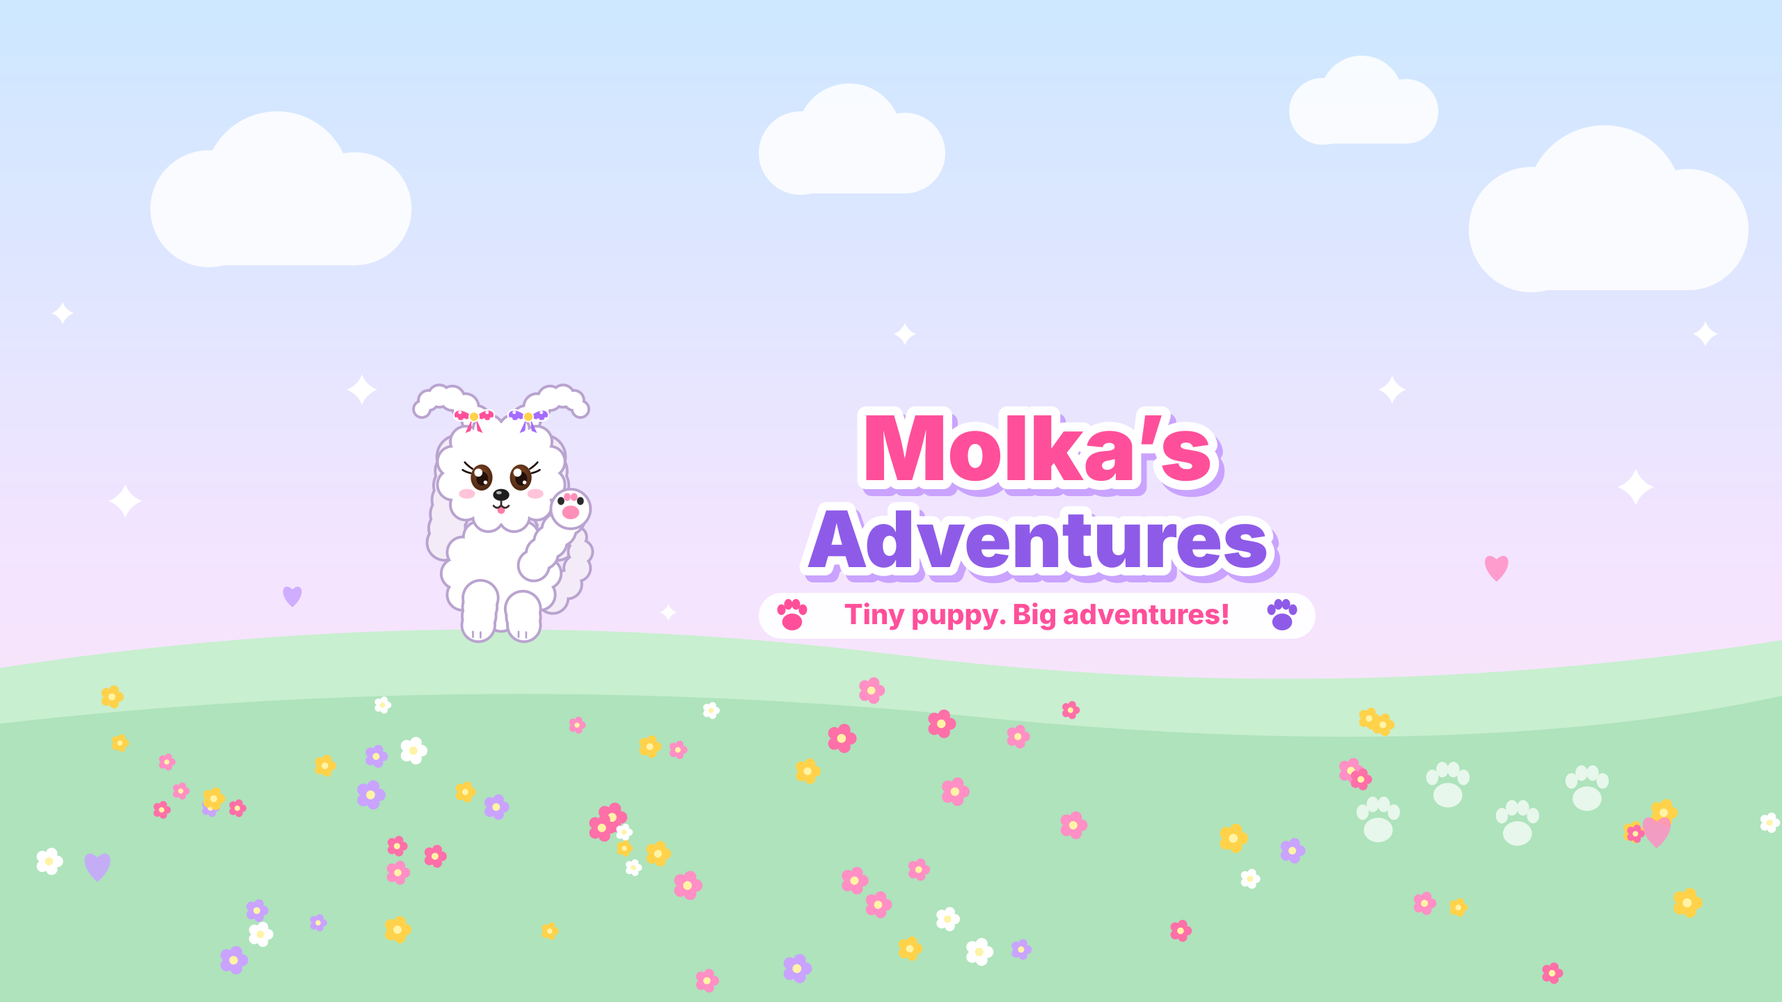
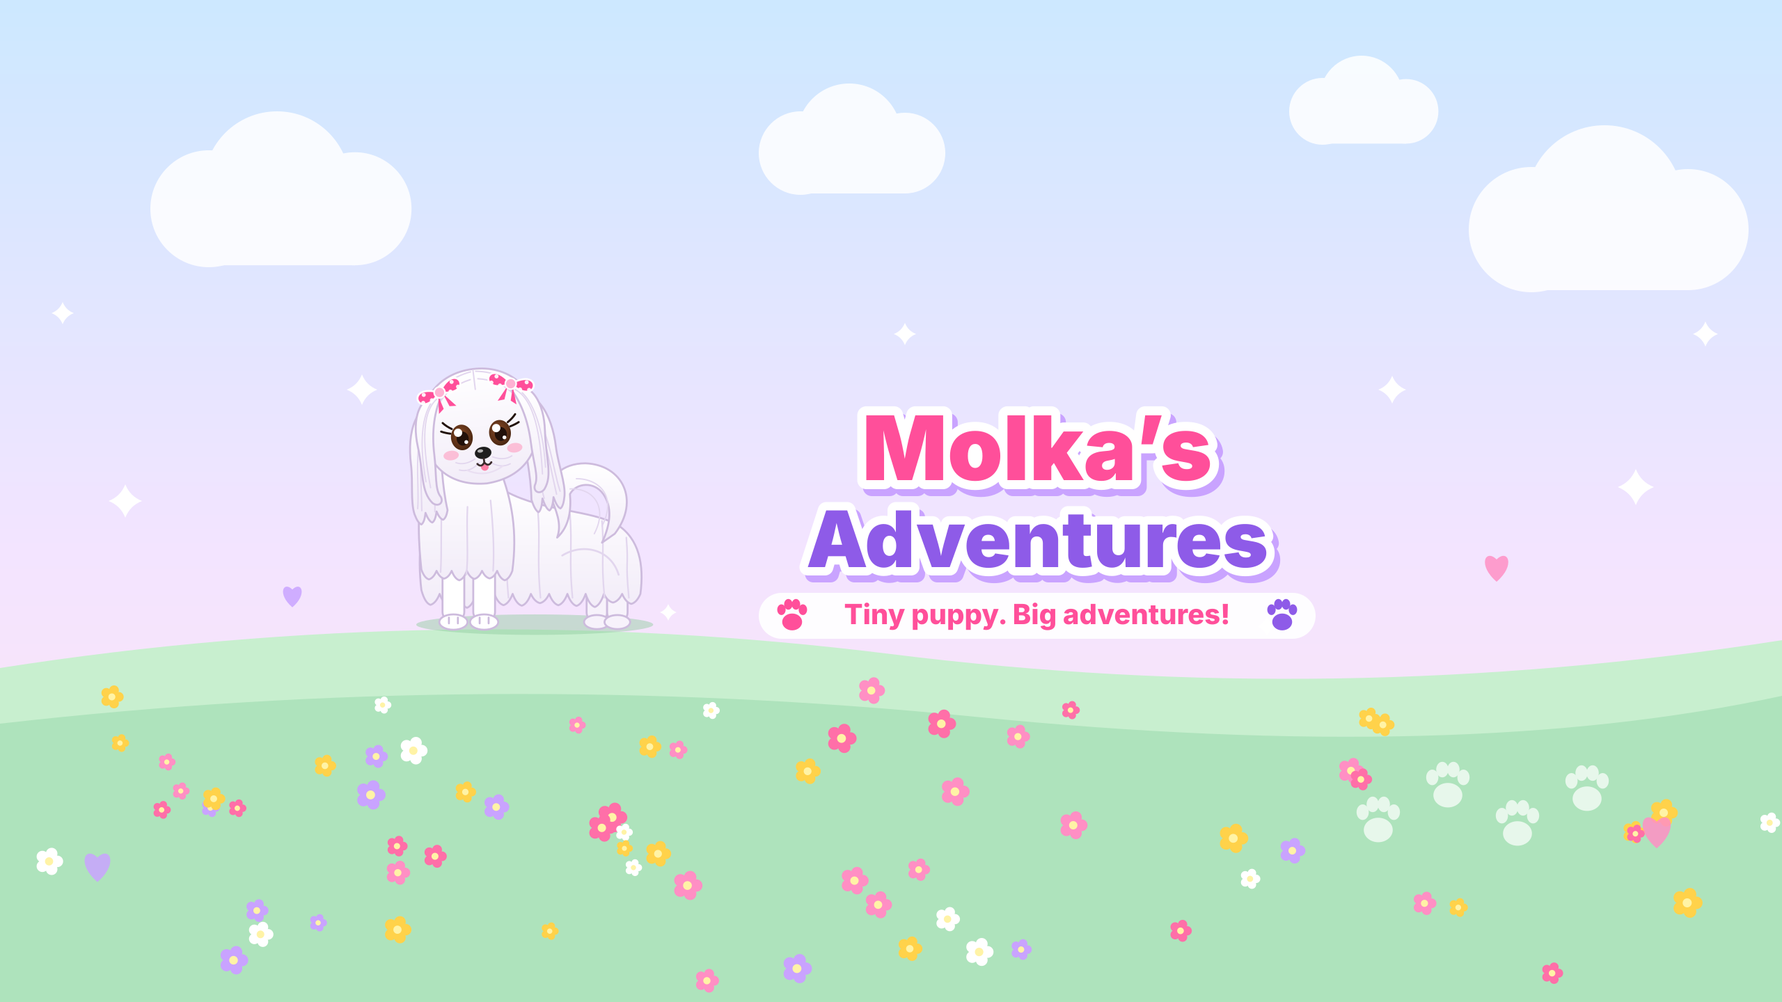
Redraw Molka: long sleek silky coat, pink pigtails, real puppy pose
Avatar, banner and watermark re-rendered. Bible, episode prompt and
channel description updated to the new locked design (both bows pink,
pigtails falling around the face, four-legged standing pose).

Claude-Session: https://claude.ai/code/session_01GFcEN7JDQBoXaYNeDLAjZH

Changed region(s): [[0.2188, 0.3438, 0.375, 0.6562]]

diff --git a/scripts/build_brand.py b/scripts/build_brand.py
@@ -24,129 +24,150 @@ NOSE = "#1E1E1E"
 BLUSH = "#FF9DC0"
 TONGUE = "#FF7FA6"
 PAD_PINK, PAD_BLACK = "#FF8FB8", "#2A2A2A"
-BOW_LEFT, BOW_RIGHT, BOW_KNOT = "#FF4F9A", "#A66BFF", "#FFD24A"
+BOW, BOW_KNOT = "#FF4F9A", "#FFB3D4"
 BRAND_PINK, BRAND_PURPLE = "#FF4F9A", "#8E5BE8"
 
 
-def fluff(circles, fill=FUR, outline=OUTLINE, w=5):
-    """Scalloped fluffy shape: outline layer of bigger circles under fill circles."""
-    under = "".join(f'<circle cx="{x:.1f}" cy="{y:.1f}" r="{r + w:.1f}" fill="{outline}"/>'
-                    for x, y, r in circles)
-    over = "".join(f'<circle cx="{x:.1f}" cy="{y:.1f}" r="{r:.1f}" fill="{fill}"/>'
-                   for x, y, r in circles)
-    return under + over
+HAIR_LINE = "#CDBBDD"     # outline of the silky coat
+STRAND = "#E2D6EE"        # strand lines that make the coat read as long & silky
 
 
-def chain(p0, p1, r0, r1, n):
-    return [(p0[0] + (p1[0] - p0[0]) * i / (n - 1),
-             p0[1] + (p1[1] - p0[1]) * i / (n - 1),
-             r0 + (r1 - r0) * i / (n - 1)) for i in range(n)]
+def hair(d, extra=""):
+    return (f'<path d="{d}" fill="url(#hairGrad)" stroke="{HAIR_LINE}" stroke-width="3" '
+            f'stroke-linejoin="round"/>{extra}')
 
 
-def head_circles():
-    c = [(0, 0, 92)]
-    for k in range(12):
-        a = math.radians(k * 30 + 15)
-        c.append((math.cos(a) * 92, math.sin(a) * 82, 26))
-    return c
+def strands(paths, w=2.5):
+    return "".join(f'<path d="{d}" stroke="{STRAND}" stroke-width="{w}" fill="none" '
+                   f'stroke-linecap="round"/>' for d in paths)
 
 
-def ear(side):
-    s = side
-    return fluff(chain((s * 78, -30), (s * 104, 128), 38, 30, 7), fill=FUR_SHADE)
-
-
-def pigtail(side):
-    s = side
-    # short fountain-style tufts that splay outwards and droop at the tips,
-    # so they read as pigtails, not ears
-    pts = [(s * 46, -98, 24), (s * 66, -122, 22), (s * 90, -138, 20),
-           (s * 114, -142, 18), (s * 134, -134, 16), (s * 146, -118, 13)]
-    return fluff(pts)
-
-
-def bow(side):
-    s = side
-    color = BOW_LEFT if s < 0 else BOW_RIGHT
-    cx, cy = s * 50, -104
-    loops = (f'<path d="M {cx} {cy} C {cx-48} {cy-40}, {cx-52} {cy+30}, {cx} {cy} Z" '
-             f'fill="{color}" stroke="#ffffff" stroke-width="3" stroke-linejoin="round"/>'
-             f'<path d="M {cx} {cy} C {cx+48} {cy-40}, {cx+52} {cy+30}, {cx} {cy} Z" '
-             f'fill="{color}" stroke="#ffffff" stroke-width="3" stroke-linejoin="round"/>')
-    tails = (f'<path d="M {cx-4} {cy+4} L {cx-16} {cy+30} L {cx-6} {cy+26} Z" fill="{color}"/>'
-             f'<path d="M {cx+4} {cy+4} L {cx+16} {cy+30} L {cx+6} {cy+26} Z" fill="{color}"/>')
-    dots = "".join(f'<circle cx="{cx + dx}" cy="{cy + dy}" r="3.2" fill="#ffffff" opacity="0.9"/>'
-                   for dx, dy in [(-26, -8), (-18, 6), (-32, 4), (24, -8), (18, 6), (32, 4)])
-    knot = f'<circle cx="{cx}" cy="{cy}" r="9" fill="{BOW_KNOT}" stroke="#ffffff" stroke-width="2.5"/>'
-    return tails + loops + dots + knot
-
-
-def eye(cx, cy, side):
-    lash = (f'<path d="M {cx + side*17} {cy-16} q {side*9} -6 {side*14} -12" stroke="{PUPIL}" '
-            f'stroke-width="3.5" fill="none" stroke-linecap="round"/>'
-            f'<path d="M {cx + side*20} {cy-8} q {side*9} -2 {side*15} -6" stroke="{PUPIL}" '
-            f'stroke-width="3.5" fill="none" stroke-linecap="round"/>')
-    return (lash +
-            f'<ellipse cx="{cx}" cy="{cy}" rx="20" ry="24" fill="url(#eyeGrad)"/>'
-            f'<ellipse cx="{cx+1}" cy="{cy+2}" rx="11" ry="13" fill="{PUPIL}"/>'
-            f'<circle cx="{cx-6}" cy="{cy-9}" r="7.5" fill="#fff"/>'
-            f'<circle cx="{cx+7}" cy="{cy+9}" r="3.5" fill="#fff"/>')
-
-
-def face():
-    return (eye(-36, 8, -1) + eye(36, 8, 1) +
-            f'<ellipse cx="-63" cy="38" rx="15" ry="9" fill="{BLUSH}" opacity="0.6"/>'
-            f'<ellipse cx="63" cy="38" rx="15" ry="9" fill="{BLUSH}" opacity="0.6"/>'
-            f'<ellipse cx="0" cy="40" rx="15" ry="11" fill="{NOSE}"/>'
-            f'<ellipse cx="-4" cy="36" rx="5" ry="3" fill="#fff" opacity="0.65"/>'
-            f'<ellipse cx="0" cy="68" rx="7" ry="7" fill="{TONGUE}"/>'
-            f'<path d="M 0 51 L 0 59 M -14 60 Q -7 68 0 59 Q 7 68 14 60" stroke="#3A2A2A" '
-            f'stroke-width="3.5" fill="none" stroke-linecap="round" stroke-linejoin="round"/>')
-
-
-def paw_pads(cx, cy, k=1.0):
-    """Pink main pad, toe beans black-pink-pink-black (locked pattern)."""
-    beans = [(-17, -14, PAD_BLACK), (-6, -21, PAD_PINK), (6, -21, PAD_PINK), (17, -14, PAD_BLACK)]
-    out = f'<ellipse cx="{cx}" cy="{cy + 6*k}" rx="{15*k}" ry="{12*k}" fill="{PAD_PINK}"/>'
-    out += "".join(f'<ellipse cx="{cx + dx*k}" cy="{cy + dy*k}" rx="{6*k}" ry="{7*k}" fill="{c}"/>'
-                   for dx, dy, c in beans)
+def hem(x0, x1, y, n, depth=16, seed=3):
+    """Silky pointed hair tips from x0 to x1 around height y (slightly uneven)."""
+    import random
+    rnd = random.Random(seed)
+    out, step = "", (x1 - x0) / n
+    for i in range(n):
+        xa, xb = x0 + step * i, x0 + step * (i + 1)
+        m, d = (xa + xb) / 2, depth * rnd.uniform(0.7, 1.25)
+        out += (f" Q {xa + step*0.2:.1f} {y + d*0.85:.1f} {m:.1f} {y + d:.1f}"
+                f" Q {xb - step*0.2:.1f} {y + d*0.85:.1f} {xb:.1f} {y:.1f}")
     return out
 
 
-def body(wave=True):
-    parts = []
-    # tail (behind body)
-    parts.append(fluff([(95, 230, 26), (122, 205, 24), (140, 175, 22), (146, 145, 20),
-                        (138, 118, 17)], fill=FUR_SHADE))
-    # body blob
-    c = [(0, 185, 88)] + [(math.cos(math.radians(a)) * 82, 185 + math.sin(math.radians(a)) * 78, 26)
-                          for a in range(0, 360, 30)]
-    parts.append(fluff(c))
-    # front legs + feet
-    for s in (-1, 1) if not wave else (-1,):
-        parts.append(fluff(chain((s * 38, 230), (s * 42, 280), 30, 28, 4)))
-        parts.append(f'<path d="M {s*42-10} 292 l 0 10 M {s*42+4} 293 l 0 10" stroke="{OUTLINE}" '
-                     f'stroke-width="3.5" stroke-linecap="round"/>')
-    if wave:
-        parts.append(fluff(chain((40, 250), (42, 280), 30, 28, 3)))
-        parts.append(f'<path d="M 32 292 l 0 10 M 46 293 l 0 10" stroke="{OUTLINE}" '
-                     f'stroke-width="3.5" stroke-linecap="round"/>')
-    return "".join(parts)
+def ear(sd, L=130):
+    """Long silky ear hair hanging from the side of the head."""
+    d = (f"M {sd*52} -52 C {sd*96} -56 {sd*114} -10 {sd*114} 40 "
+         f"C {sd*114} {L-50} {sd*122} {L-20} {sd*118} {L}"
+         + hem(sd*118, sd*66, L, 3, 18, seed=5 if sd > 0 else 9) +
+         f" C {sd*70} {L-40} {sd*66} 40 {sd*64} 10 C {sd*62} -20 {sd*56} -40 {sd*52} -52 Z")
+    return hair(d, strands([f"M {sd*70} -40 C {sd*100} -10 {sd*100} 60 {sd*106} {L-4}",
+                            f"M {sd*80} -30 C {sd*108} 10 {sd*104} 70 {sd*112} {L-8}",
+                            f"M {sd*66} 0 C {sd*84} 30 {sd*80} 80 {sd*86} {L}"], 2.2))
 
 
-def waving_arm():
-    return (fluff(chain((60, 170), (122, 82), 26, 30, 5)) +
-            fluff([(128, 66, 34)]) + paw_pads(128, 66, 1.05))
+def head_shape():
+    """Round furry head, hair parted in the middle and lying sleek."""
+    d = "M 0 -96 C 56 -96 92 -56 90 -4 C 88 48 56 82 0 84 C -56 82 -88 48 -90 -4 C -92 -56 -56 -96 0 -96 Z"
+    return (hair(d) +
+            strands(["M 0 -94 L 0 -64",
+                     "M -4 -92 C -34 -88 -60 -72 -72 -46", "M 4 -92 C 34 -88 60 -72 72 -46",
+                     "M -6 -80 C -28 -76 -46 -66 -56 -52", "M 6 -80 C 28 -76 46 -66 56 -52"], 2.2) +
+            # moustache / muzzle fur
+            strands(["M -8 50 C -18 60 -30 62 -40 58", "M 8 50 C 18 60 30 62 40 58",
+                     "M -14 44 C -26 50 -36 50 -44 46", "M 14 44 C 26 50 36 50 44 46"], 2) +
+            '<path d="M -28 60 Q 0 76 28 60" stroke="#EADFF2" stroke-width="2.5" fill="none" stroke-linecap="round"/>')
+
+
+def pigtail(sd):
+    """Pigtail tied high on the side of the head; the hair falls down softly
+    beside the cheek and ends in a little inward curl."""
+    d = (f"M {sd*50} -66 C {sd*90} -66 {sd*104} -30 {sd*100} 14 "
+         f"C {sd*96} 56 {sd*104} 84 {sd*88} 104 C {sd*80} 112 {sd*70} 106 {sd*74} 96 "
+         f"C {sd*82} 84 {sd*76} 60 {sd*76} 30 C {sd*76} -6 {sd*68} -40 {sd*50} -66 Z")
+    return hair(d, strands([f"M {sd*62} -56 C {sd*90} -36 {sd*92} 20 {sd*88} 80",
+                            f"M {sd*72} -50 C {sd*96} -20 {sd*96} 40 {sd*94} 70"], 2))
+
+
+def bow(sd):
+    cx, cy = sd * 56, -66
+    rot = sd * 18
+    dots = "".join(f'<circle cx="{dx}" cy="{dy}" r="3.2" fill="#fff" opacity="0.9"/>'
+                   for dx, dy in [(-24, -7), (-16, 6), (-30, 4), (24, -7), (16, 6), (30, 4)])
+    return (f'<g transform="translate({cx} {cy}) rotate({rot})">'
+            f'<path d="M -4 4 L -15 30 L -5 26 Z M 4 4 L 15 30 L 5 26 Z" fill="{BOW}"/>'
+            f'<path d="M 0 0 C -46 -38 -50 30 0 0 Z M 0 0 C 46 -38 50 30 0 0 Z" fill="{BOW}" '
+            f'stroke="#fff" stroke-width="3" stroke-linejoin="round"/>{dots}'
+            f'<circle r="8.5" fill="{BOW_KNOT}" stroke="#fff" stroke-width="2.5"/></g>')
+
+
+def eye(cx, cy, sd):
+    lash = (f'<path d="M {cx + sd*14} {cy-15} q {sd*8} -5 {sd*13} -11" stroke="{PUPIL}" '
+            f'stroke-width="3.2" fill="none" stroke-linecap="round"/>'
+            f'<path d="M {cx + sd*17} {cy-8} q {sd*8} -2 {sd*14} -5" stroke="{PUPIL}" '
+            f'stroke-width="3.2" fill="none" stroke-linecap="round"/>')
+    return (lash + f'<ellipse cx="{cx}" cy="{cy}" rx="17" ry="20" fill="url(#eyeGrad)"/>'
+            f'<ellipse cx="{cx+1}" cy="{cy+2}" rx="9.5" ry="11" fill="{PUPIL}"/>'
+            f'<circle cx="{cx-5}" cy="{cy-8}" r="6.5" fill="#fff"/>'
+            f'<circle cx="{cx+6}" cy="{cy+8}" r="3" fill="#fff"/>')
+
+
+def face():
+    return (eye(-30, 8, -1) + eye(30, 8, 1) +
+            f'<ellipse cx="-50" cy="34" rx="12" ry="7.5" fill="{BLUSH}" opacity="0.6"/>'
+            f'<ellipse cx="50" cy="34" rx="12" ry="7.5" fill="{BLUSH}" opacity="0.6"/>'
+            f'<ellipse cx="0" cy="36" rx="13" ry="9.5" fill="{NOSE}"/>'
+            f'<ellipse cx="-4" cy="32.5" rx="4.5" ry="2.6" fill="#fff" opacity="0.65"/>'
+            f'<ellipse cx="0" cy="58" rx="6" ry="6" fill="{TONGUE}"/>'
+            f'<path d="M 0 45 L 0 51 M -11 52 Q -5.5 59 0 51 Q 5.5 59 11 52" stroke="#3A2A2A" '
+            f'stroke-width="3" fill="none" stroke-linecap="round" stroke-linejoin="round"/>')
+
+
+def head(L=130):
+    return (ear(-1, L) + ear(1, L) + head_shape() + pigtail(-1) + pigtail(1) +
+            bow(-1) + bow(1) + face())
+
+
+def puppy_body():
+    """Sitting puppy in 3/4 view: chest under the head, body and haunch behind,
+    long silky coat to the ground, tail plume curled over the back."""
+    g = []
+    g.append('<ellipse cx="85" cy="304" rx="185" ry="16" fill="#8FCB9E" opacity="0.45"/>')
+    # back leg sits behind the coat; only the lower leg and paw show
+    for x in (182, 214):
+        g.append(f'<rect x="{x-16}" y="200" width="32" height="100" rx="15" fill="#F7F2FB" '
+                 f'stroke="{HAIR_LINE}" stroke-width="3"/>')
+        g.append(f'<ellipse cx="{x}" cy="300" rx="20" ry="11" fill="#F7F2FB" stroke="{HAIR_LINE}" stroke-width="3"/>')
+    body = ("M -60 80 C -96 130 -98 200 -92 250" + hem(-92, 250, 256, 12, 18, seed=11) +
+            " C 256 210 248 170 214 148 C 170 124 100 128 40 96 Z")
+    g.append(hair(body, strands([f"M {x} {y} C {x+4} {y+50} {x-2} 200 {x+4} 262"
+                                 for x, y in [(-60, 120), (-10, 110), (40, 112), (90, 128), (140, 132),
+                                              (190, 142), (228, 168)]])))
+    g.append(f'<path d="M 128 196 C 160 176 204 186 216 226" stroke="{STRAND}" stroke-width="3" '
+             f'fill="none" stroke-linecap="round"/>')          # haunch
+    # front legs + paws peeking out from under the chest hair
+    for x in (-42, 6):
+        g.append(f'<rect x="{x-17}" y="196" width="34" height="104" rx="16" fill="#fff" '
+                 f'stroke="{HAIR_LINE}" stroke-width="3"/>')
+        g.append(f'<ellipse cx="{x}" cy="300" rx="22" ry="12" fill="#fff" stroke="{HAIR_LINE}" stroke-width="3"/>')
+        g.append(f'<path d="M {x-7} 293 l 0 9 M {x+7} 293 l 0 9" stroke="{HAIR_LINE}" '
+                 f'stroke-width="3" stroke-linecap="round"/>')
+    bib = "M -88 60 C -100 130 -96 180 -92 218" + hem(-92, 50, 220, 6, 16, seed=4) + " C 58 160 50 110 30 60 Z"
+    g.append(hair(bib, strands(["M -60 110 C -62 150 -60 190 -62 222",
+                                "M -20 120 C -22 160 -18 200 -22 226", "M 16 110 C 20 150 22 190 20 220"])))
+    # tail: plume rising from the rump and curling over the back, silky hair falling off it
+    tail = ("M 210 162 C 250 110 222 54 164 52 C 128 52 104 74 110 104 "
+            "C 118 126 128 146 120 168 C 140 150 142 122 140 100 C 150 82 178 80 192 100 "
+            "C 206 120 204 146 190 176 Z")
+    g.append(hair(tail, strands(["M 190 150 C 214 104 186 76 150 76", "M 178 162 C 200 120 176 90 140 92"], 2)))
+    return "".join(g)
 
 
 def molka(x, y, s, full_body=False):
-    g = [ear(-1), ear(1)]
     if full_body:
-        g.append(body(wave=True))
-    g += [pigtail(-1), pigtail(1), fluff(head_circles()), bow(-1), bow(1), face()]
-    if full_body:
-        g.append(waving_arm())
-    return f'<g transform="translate({x} {y}) scale({s})">{"".join(g)}</g>'
+        return (f'<g transform="translate({x} {y}) scale({s})">{puppy_body()}'
+                f'<g transform="rotate(-7)">{head(L=118)}</g></g>')
+    return f'<g transform="translate({x} {y}) scale({s})">{head()}</g>'
 
 
 def sparkle(x, y, r, color="#FFFFFF", op=1.0):
@@ -170,6 +191,8 @@ def paw_print(x, y, s, color, op=1.0):
 DEFS = (f'<defs><radialGradient id="eyeGrad" cx="45%" cy="40%" r="60%">'
         f'<stop offset="0" stop-color="{EYE_IN}"/><stop offset="1" stop-color="{EYE_OUT}"/>'
         f'</radialGradient>'
+        '<linearGradient id="hairGrad" x1="0" y1="0" x2="0" y2="1"><stop offset="0" stop-color="#FFFFFF"/>'
+        '<stop offset="1" stop-color="#F2ECF8"/></linearGradient>'
         '<radialGradient id="avBg" cx="50%" cy="45%" r="60%"><stop offset="0" stop-color="#FFF0F7"/>'
         '<stop offset="0.7" stop-color="#FFD3E8"/><stop offset="1" stop-color="#E5CCFF"/></radialGradient>'
         '<linearGradient id="sky" x1="0" y1="0" x2="0" y2="1"><stop offset="0" stop-color="#CDE8FF"/>'
@@ -188,12 +211,12 @@ def avatar():
                     sparkle(150, 560, 14, op=0.9), heart(605, 300, 1.4, "#FF8FC4", 0.8),
                     heart(200, 330, 1.1, "#C9A3FF", 0.8)])
     return svg(800, 800, '<rect width="800" height="800" fill="url(#avBg)"/>' + deco +
-               molka(400, 430, 1.55))
+               molka(400, 390, 2.15))
 
 
 def watermark():
     return svg(150, 150, '<circle cx="75" cy="75" r="72" fill="url(#badge)" stroke="#fff" '
-                         'stroke-width="5"/>' + molka(75, 84, 0.315))
+                         'stroke-width="5"/>' + molka(75, 72, 0.47))
 
 
 def banner():
@@ -228,7 +251,7 @@ def banner():
     for i, (x, y) in enumerate([(1980, 1180), (2080, 1130), (2180, 1185), (2280, 1135)]):
         g.append(paw_print(x, y, 1.6, "#FFFFFF", 0.7))
     # Molka inside the safe area (x 507–2053, y 508.5–931.5)
-    g.append(molka(720, 680, 0.78, full_body=True))
+    g.append(molka(690, 618, 0.92, full_body=True))
     # title + tagline inside safe area
     cx = 1490
     title = ('font-family="Inter" font-weight="900" text-anchor="middle" '

diff --git a/bible/SERIES_BIBLE.md b/bible/SERIES_BIBLE.md
@@ -19,19 +19,19 @@ channel owner before Claude renders anything that depends on them (HARD RULE A2)
 
 ## Molka (main character) — LOCKED
 **In one line:** a tiny white Maltese princess puppy with big brown eyes and
-colourful pigtails.
+pink pigtails.
 
 | Field | Value |
 |---|---|
 | Species / breed | Maltese puppy (she/her) |
-| Fur | Pure white, long, silky and flowing; soft rounded silhouette |
+| Fur | Pure white, long, straight, silky and sleek — parted down the middle of the head and falling smoothly; hair ends in soft pointed tips, never fluffy or curly |
 | Nose | Small, round, shiny black |
 | Eyes | Big, round, dark brown, with a white highlight sparkle in each eye |
 | Paws & toe beans | Pink main pad; four toe beans in the pattern black–pink–pink–black (`#FF8FB8` pink, `#2A2A2A` black). Show them when she sits, waves or sleeps |
-| Ears | Floppy, covered in long white silky fur that blends into her head |
-| Tail | Fluffy white plume that curls over her back and wags when happy |
-| Signature accessory | **Always** two colourful, girly pigtails on top of her head, tied with bows/hair ties. She never appears without them. Bow colours below are locked. |
-| Bow colours | LOCKED: left bow hot pink `#FF4F9A`, right bow lilac purple `#A66BFF`, both with white polka dots and a sunshine-yellow `#FFD24A` centre knot |
+| Ears | Long silky ear hair hanging down beside her head, behind the pigtails |
+| Tail | Long silky white plume that curls over her back, hair falling off it; wags when happy |
+| Signature accessory | **Always** two pigtails tied high on the sides of her head with pink bows. The pigtails are NOT sticking up — the hair falls down softly beside her cheeks, framing her face, ending in a little inward curl. She never appears without them. |
+| Bow colours | LOCKED: both bows hot pink `#FF4F9A` with white polka dots and a light-pink `#FFB3D4` centre knot |
 | Collar | None. The pigtails are her signature look |
 | Size | Tiny — smaller than most things around her; the world looks big to her |
 | Overall vibe | A tiny princess puppy: dainty, sweet, sparkly, but adventurous |
@@ -41,12 +41,14 @@ colourful pigtails.
 | Likes | TO CONFIRM |
 | Dislikes / fears | TO CONFIRM (kept gentle — e.g. bath time, the vacuum) |
 
-**Drawing rules:** white fur needs a light warm-grey or lavender shading/outline so she
-never disappears against pale backgrounds; keep her eyes big and her proportions
-chibi-cute (big head, small body); the pigtails stay in the same place on every
-shot and from every angle.
+**Drawing rules:** white fur gets a soft lavender outline `#CDBBDD`, faint strand lines
+`#E2D6EE` and a white-to-lilac gradient so it reads as long and silky and never
+disappears on pale backgrounds. Keep her eyes big and her head large (puppy
+proportions), but her body is a real dog body — four legs, back, tail — never a blob
+or a human-like pose (no waving, no standing on two legs). Pigtails hang in the same
+place on every shot and from every angle.
 
-Official reference: `channel/brand/avatar_800x800.png` (face) and `channel/brand/banner_2560x1440.png` (full body, waving), both drawn by `scripts/build_brand.py` — reuse its `molka()` drawing code for episodes so she is identical everywhere.
+Official reference: `channel/brand/avatar_800x800.png` (face) and `channel/brand/banner_2560x1440.png` (full body, standing 3/4 view), both drawn by `scripts/build_brand.py` — reuse its `molka()` drawing code for episodes so she is identical everywhere.
 
 Further reference art: `assets/characters/molka/` (add turnaround: front, side,
 back, ¾, plus key expressions: happy, sad, surprised, sleepy, determined).

diff --git a/prompts/NEW_EPISODE.md b/prompts/NEW_EPISODE.md
@@ -14,14 +14,15 @@ including this message.
 
 STEP 2 — Who Molka is (must match in every frame):
 Molka is a tiny Maltese puppy girl who looks like a little princess: pure white,
-long, silky fur; a small shiny black nose; big round dark-brown eyes with
-sparkles; pink and black paw pads and toe beans; floppy furry ears; a fluffy tail
-that curls over her back. She ALWAYS wears two colourful, girly pigtails with
-bows on top of her head — never without them, same colours every episode (use
-the colours locked in the bible; if none are locked yet, choose them now and
-record them in the bible). Shade her white fur with soft warm-grey/lavender so
-she never disappears on pale backgrounds. Cute chibi proportions: big head,
-small body.
+long, straight, sleek and silky fur parted down the middle (never fluffy or
+curly); a small shiny black nose; big round dark-brown eyes with sparkles; pink
+and black paw pads and toe beans; long silky ear hair; a silky tail plume that
+curls over her back. She ALWAYS wears two pigtails tied high on the sides of her
+head with PINK polka-dot bows — the pigtails fall down softly beside her cheeks,
+framing her face, never sticking up. Outline her white fur in soft lavender with
+faint strand lines so it reads as silky. Big head and big eyes, but a real puppy
+body on four legs — no blob bodies or human-like poses. Reuse the molka()
+drawing code in scripts/build_brand.py so she matches the channel art exactly.
 
 STEP 3 — What to make:
 - Format: <Short | Long>

diff --git a/channel/CHANNEL_DETAILS.md b/channel/CHANNEL_DETAILS.md
@@ -22,7 +22,7 @@ Back-ups: `@MolkaThePuppy`, `@MolkaAdventures`, `@MolkasAdventuresTV`
 ```
 Welcome to Molka's Adventures! 🐾
 
-Molka is a tiny white Maltese puppy with big brown eyes and colourful pigtails – a little princess with a very big curiosity. Every video follows Molka as she explores her world: making new friends, discovering the garden, getting into gentle mischief and learning something new along the way.
+Molka is a tiny white Maltese puppy with long silky fur, big brown eyes and pink pigtails – a little princess with a very big curiosity. Every video follows Molka as she explores her world: making new friends, discovering the garden, getting into gentle mischief and learning something new along the way.
 
 ✨ Cute animated Shorts and episodes
 🌸 Gentle, happy stories for little ones and their families
@@ -113,7 +113,7 @@ Molka, Molka's Adventures, puppy cartoon, cute puppy, dog cartoon, kids cartoon,
 
 ### Molka's Adventures – Shorts
 ```
-Quick, cute moments from Molka's day! 🐾 Short animated adventures with Molka, the tiny Maltese puppy with colourful pigtails.
+Quick, cute moments from Molka's day! 🐾 Short animated adventures with Molka, the tiny Maltese puppy with pink pigtails.
 ```
 
 ### Molka's Adventures – Full Episodes

diff --git a/CLAUDE.md b/CLAUDE.md
@@ -94,7 +94,7 @@ open questions.
 ## 4. QA checklist (all must pass before Phase 5)
 
 - [ ] Resolution, aspect ratio, fps and duration match the format (verify with `ffprobe`).
-- [ ] Molka matches the bible: white silky fur, black nose, big brown eyes, pink-and-black toe beans, colourful pigtails, proportions, personality.
+- [ ] Molka matches the bible: white silky fur, black nose, big brown eyes, pink-and-black toe beans, long sleek silky hair, pink-bowed pigtails falling around her face, proportions, personality.
 - [ ] No frame is blank, glitched, cropped wrongly or has text outside the safe area
       (Shorts: keep text out of the bottom 20 % and right 15 % where YouTube UI sits).
 - [ ] Audio present, no clipping (peak ≤ −1 dBTP), loudness ≈ −14 LUFS.
